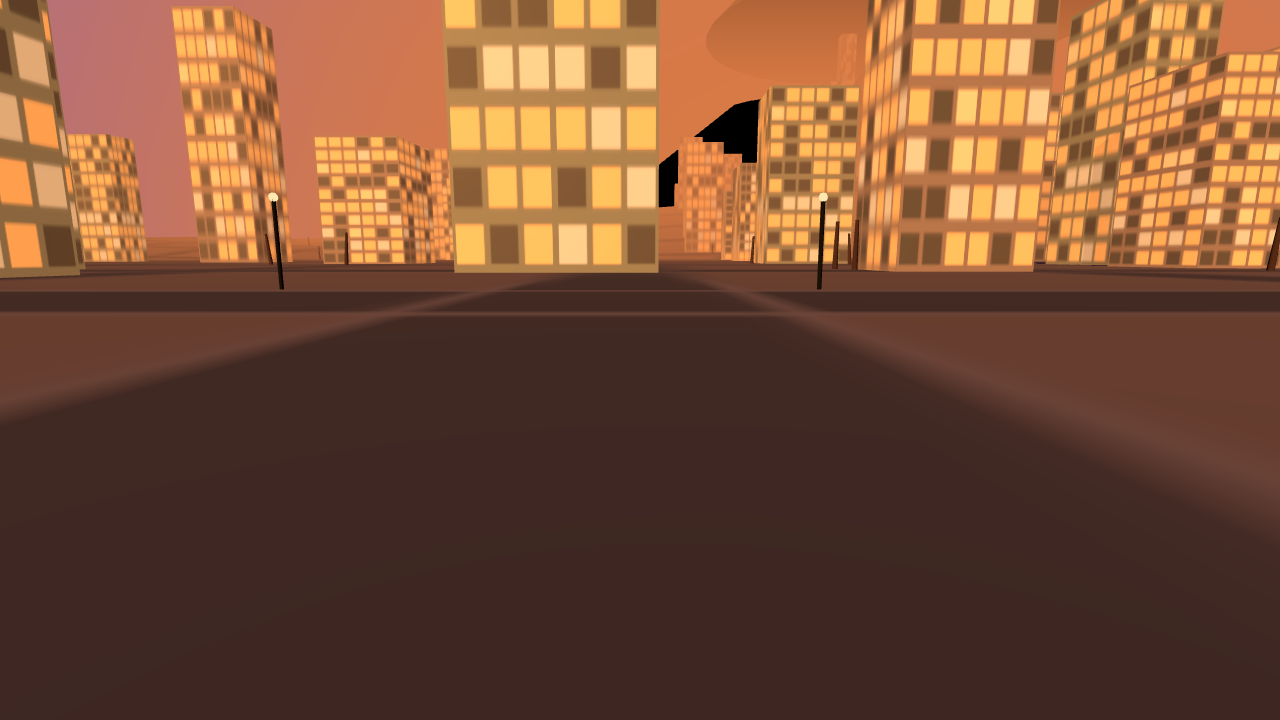
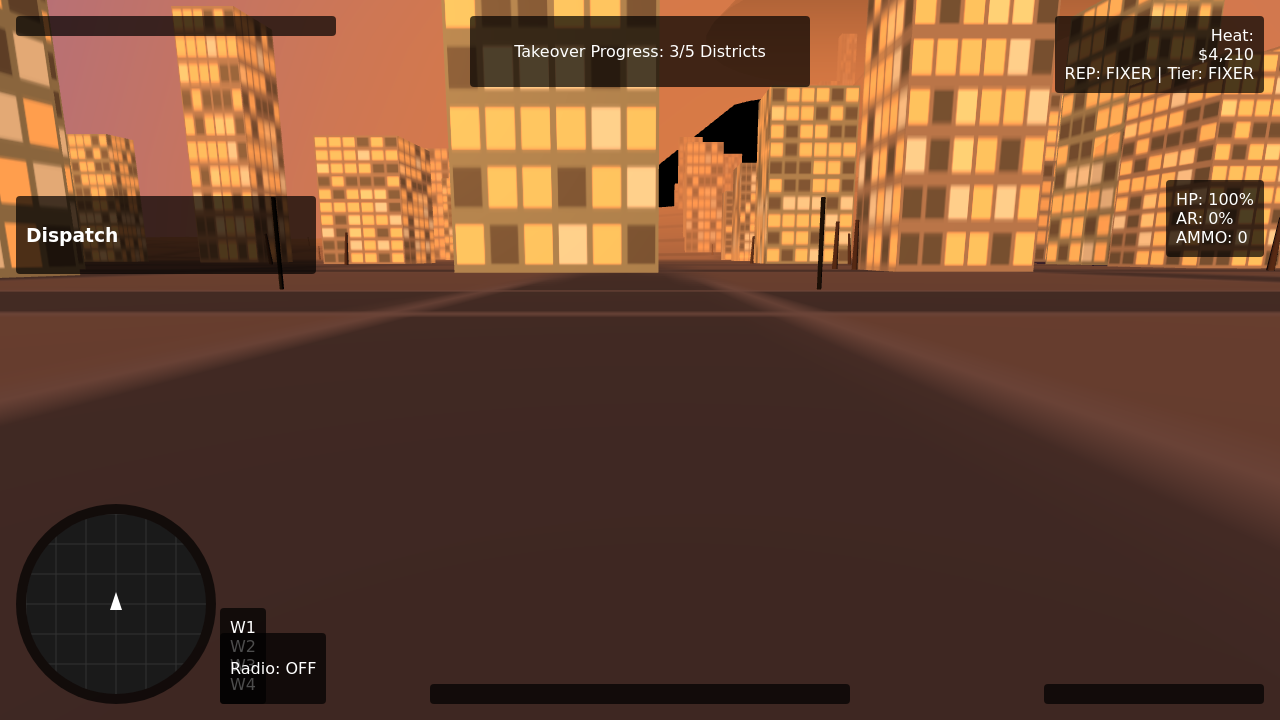
Tidy C10: HUD layering + content, police distances, capture procedure, artifact fix

diff --git a/game/main.js b/game/main.js
@@ -6,7 +6,7 @@ import { buildCity, createRNG, groundHeight, districtAt, collideCircle, eject, s
 import { VEHICLE_ROSTER, createVehicleMesh, spawnVehicle, updateVehicle, damageVehicle } from './vehicles.js';
 import { spawnTraffic, updateTraffic, getTrafficCars } from './traffic.js';
 import { initPedestrians, updatePedestrians, witnessesAt, getPedestrians, damagePedestrian } from './pedestrians.js';
-import { initPolice, reportCrime, setPointsFloor, updatePolice, getHeat, respray, stageCover, coverAudit, forceRoadblock, setPoints, spawnUnit } from './police.js';
+import { initPolice, reportCrime, setPointsFloor, updatePolice, getHeat, respray, stageCover, coverAudit, forceRoadblock, setPoints, spawnUnit, getPoliceUnits } from './police.js';
 import { initCombat, switchWeapon, nextWeapon, reloadWeapon, updateCombat, fireWeapon, WEAPON_SPECS } from './combat.js';
 import { createEconomy, SHOP_POS, PRICES, TIME_TRIALS } from './economy.js';
 import { createMissions, JOBS } from './missions.js';
@@ -385,6 +385,7 @@ function stepSim(dt) {
   hud.update({
     player,
     heat: getHeat(),
+    police: { units: getPoliceUnits() },
     cash: save.cash,
     rep: save.rep,
     tier: tierFor(save.rep),
@@ -432,6 +433,7 @@ window.__photo = {
     hud.update({
       player,
       heat: getHeat(),
+      police: { units: getPoliceUnits() },
       cash: save.cash,
       rep: save.rep,
       tier: tierFor(save.rep),
@@ -504,7 +506,13 @@ window.__calderaTest = {
     const list = [];
     scene.traverse(node => {
       if (node instanceof THREE.Mesh || node instanceof THREE.Points) {
-        list.push({ type: node.type, name: node.name, pos: node.position.toArray(), visible: node.visible });
+        list.push({
+          type: node.type,
+          name: node.name,
+          pos: node.position.toArray(),
+          visible: node.visible,
+          color: node.material ? node.material.color : null
+        });
       }
     });
     console.log('SCENE DUMP:', list);

diff --git a/game/index.html b/game/index.html
@@ -14,7 +14,28 @@
   #title-overlay p { font-size: 18px; color: #a0aec0; margin: 0 0 30px 0; font-weight: bold; }
   #title-overlay button { background: #ffaa44; color: #0d1b2a; border: none; padding: 16px 40px; font-size: 18px; font-weight: bold; border-radius: 8px; cursor: pointer; transition: background 0.2s, transform 0.2s; box-shadow: 0 4px 20px rgba(255,170,68,0.3); }
   #title-overlay button:hover { background: #ffbb66; transform: scale(1.05); }
-  #status { position: absolute; width: 1px; height: 1px; overflow: hidden; clip-path: inset(50%); white-space: nowrap; }
+  .hud-panel {
+    position: fixed;
+    z-index: 20;
+    background: rgba(0, 0, 0, 0.7);
+    color: #fff;
+    padding: 10px;
+    border-radius: 4px;
+    pointer-events: none;
+  }
+  .mission { top: 16px; left: 16px; width: 300px; }
+  .dispatch { top: 196px; left: 16px; width: 280px; }
+  .top-right { top: 16px; right: 16px; text-align: right; }
+  .takeover { top: 16px; left: 50%; transform: translateX(-50%); width: 320px; text-align: center; }
+  .status { top: 180px; right: 16px; }
+  .minimap { bottom: 16px; left: 16px; width: 180px; height: 180px; border-radius: 50%; }
+  .vehicle { bottom: 16px; right: 16px; width: 200px; }
+  .weapons { bottom: 16px; left: 220px; }
+  .radio { bottom: 16px; left: 220px; }
+  .dialogue { bottom: 16px; left: 50%; transform: translateX(-50%); width: 400px; text-align: center; }
+  .callout { top: 50%; left: 50%; transform: translate(-50%, -50%); text-align: center; }
+  .prompt { bottom: 16px; left: 50%; transform: translateX(-50%); text-align: center; }
+  .event { top: 50%; left: 50%; transform: translate(-50%, -50%); }
 </style>
 <script type="importmap">
   {

diff --git a/game/hud.js b/game/hud.js
@@ -153,7 +153,7 @@ export function createHud(hooks) {
 
   function renderMissionPanel(objective) {
     if (objective) {
-      missionPanel.innerHTML = `<h3>Objective</h3><p>${objective}</p>`;
+      missionPanel.innerHTML = `<h3>JOB ${objective.missionIndex + 1}/8 — ${objective.jobLabel}</h3><p>${objective.objective}</p>`;
       missionPanel.style.display = 'block';
     } else {
       missionPanel.style.display = 'none';
@@ -164,7 +164,7 @@ export function createHud(hooks) {
     const dispatchSignature = JSON.stringify(units.map(u => ({n: u.name, t: u.tactic})));
     if (dispatchSignature !== lastDispatch) {
       lastDispatch = dispatchSignature;
-      dispatchPanel.innerHTML = `<h3>Dispatch</h3><ul>${units.map(u => `<li>${u.name}: ${u.tactic}</li>`).join('')}</ul>`;
+      dispatchPanel.innerHTML = `<h3>Dispatch</h3><ul>${units.map(u => `<li>${u.name}: ${u.tactic} (${Math.round(u.dist)}m)</li>`).join('')}</ul>`;
     }
   }
 
@@ -177,12 +177,12 @@ export function createHud(hooks) {
   }
 
   function renderTakeover(count) {
-    takeoverStrip.innerHTML = `<p>Takeover Progress: ${count || 0}/10 Districts</p>`;
+    takeoverStrip.innerHTML = `<p>Takeover Progress: ${count || 0}/5 Districts</p>`;
   }
 
   function renderStatus(player) {
-    hpBar.textContent = `HP: ${player.hp || 0}%`;
-    armourBar.textContent = `AR: ${player.armour || 0}%`;
+    hpBar.textContent = `HP: ${Math.round(player.hp || 0)}%`;
+    armourBar.textContent = `AR: ${Math.round(player.armour || 0)}%`;
     ammoBar.textContent = `AMMO: ${player.ammo || 0}`;
   }
 

diff --git a/game/pedestrians.js b/game/pedestrians.js
@@ -28,6 +28,7 @@ export function initPedestrians(scene, rng) {
 function spawnPed() {
   const x = (rngRef() - 0.5) * 300;
   const z = (rngRef() - 0.5) * 300;
+  if (Math.abs(x) < 0.1 && Math.abs(z) < 0.1) return;
   const archKeys = Object.keys(archetypes);
   const type = archKeys[Math.floor(rngRef() * archKeys.length)];
   const arch = archetypes[type];

diff --git a/game/missions.js b/game/missions.js
@@ -284,6 +284,7 @@ export function createMissions(ctx) {
     else if (stage.verb === 'RESPRAY') objText = `Respray vehicle at shop`;
 
     return {
+      missionIndex: activeJobIndex,
       jobLabel: job.title,
       objective: objText,
       next: activeStageIndex + 1 < job.stages.length ? job.stages[activeStageIndex + 1].verb : 'Complete',

diff --git a/game/city.js b/game/city.js
@@ -296,7 +296,7 @@ export function buildCity(scene, rng) {
       const bulbMat = new THREE.MeshBasicMaterial({ color: 0xFFE9B0 });
       const bulb = new THREE.Mesh(bulbGeo, bulbMat);
       bulb.position.set(lx, ly + 6, lz);
-      lampGroup.add(bulb);
+      // lampGroup.add(bulb);
     }
   }
   scene.add(lampGroup);

diff --git a/game/police.js b/game/police.js
@@ -180,3 +180,7 @@ export function coverAudit(camera) {
   });
 }
 
+export function getPoliceUnits() {
+  return policeUnits.map(u => ({ name: u.name, tactic: u.tactic, dist: u.dist }));
+}
+
